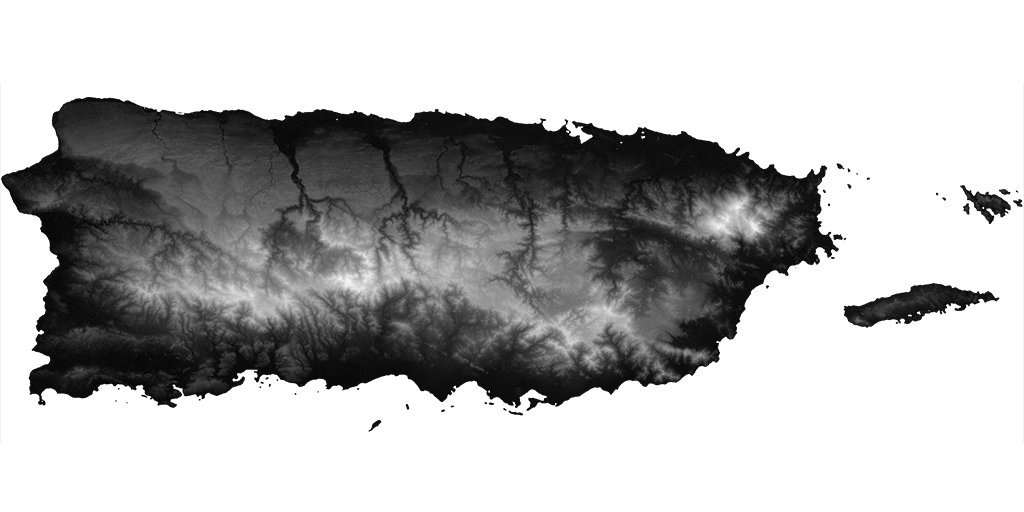
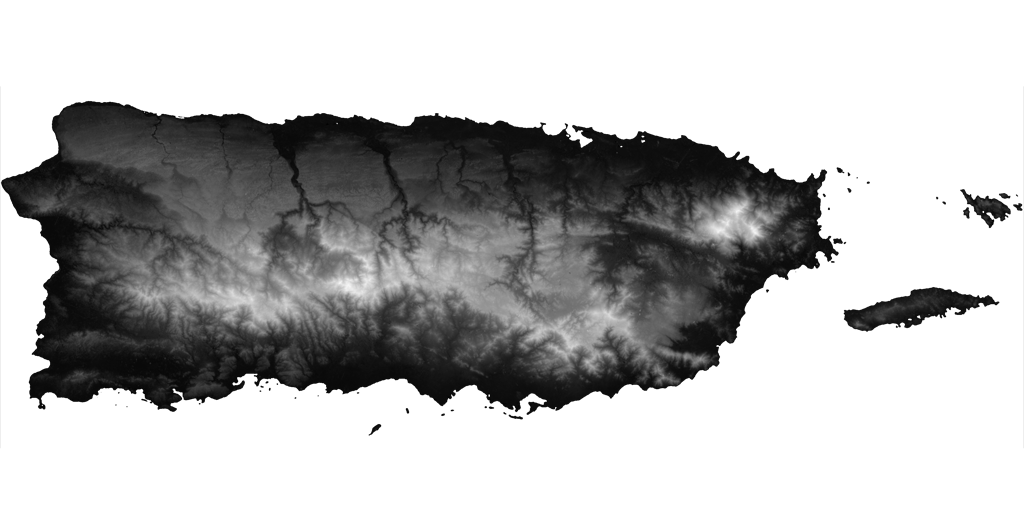
WIP using normal map

diff --git a/src/main.js b/src/main.js
@@ -8,16 +8,29 @@ const main = () => {
 };
 
 const start = (err, regl) => {
-  const pr_height_map = loadTexture(regl, 'img/puerto-rico-heightmap-1024.png');
+  const pr_tex_opts = {
+    min: 'nearest',
+    mag: 'nearest',
+  };
+
+  const pr_normals = loadTexture(regl, 'img/puerto-rico-normals-1024.png', pr_tex_opts);
+  const pr_heights = loadTexture(regl, 'img/puerto-rico-heightmap-1024.png', pr_tex_opts);
+
+  const state_width = 1024;
+  const state_height = 512;
+  const state_aspect_ratio = state_width / state_height;
+  const state_pixel_scale = [1.0, 1.0 / state_aspect_ratio];
 
   const state = (Array(2)).fill().map(() =>
     regl.framebuffer({
       color: regl.texture({
         width: 1024,
         height: 512,
-        wrap: 'clamp'
+        wrap: 'clamp',
+        min: 'linear',
+        mag: 'linear',
       }),
-      depthStencil: false
+      depthStencil: false,
     })
   );
 
@@ -26,36 +39,55 @@ const start = (err, regl) => {
     precision highp float;
 
     uniform sampler2D u_prev_state;
-    uniform sampler2D u_height_map;
-    
-    varying vec2 v_uv;
-    
+    uniform sampler2D u_normals;
+    uniform float u_time;
+    uniform vec2 u_pixel_scale;
+
+    varying vec2 v_texcoord;
+
+    vec2 hash21(float p) {
+      vec3 p3 = fract(vec3(p) * vec3(0.1031, 0.1030, 0.0973));
+      p3 += dot(p3, p3.yzx + 19.19);
+      return fract((p3.xx + p3.yz) * p3.zy);
+    }
+
     void main() {
-      gl_FragColor = texture2D(u_prev_state, v_uv);
+      vec4 normal_texel = texture2D(u_normals, v_texcoord);
+      vec3 normal = normal_texel.xyz * 2.0 - 1.0;
+
+      vec2 disp = normal.xy * u_pixel_scale * 0.1;
+      vec3 c = texture2D(u_prev_state, v_texcoord - disp).rgb;
+      c *= 0.99;
+      c += vec3(smoothstep(0.01, 0.0, distance(v_texcoord, hash21(floor(u_time * 2.0)))));
+
+      gl_FragColor = vec4(c, normal_texel.a);
     }`,
 
     vert: `
     precision highp float;
-    
+
+    attribute vec2 a_texcoord;
     attribute vec2 a_position;
-    
-    varying vec2 v_uv;
+
+    varying vec2 v_texcoord;
 
     void main() {
-      v_uv = a_position;
+      v_texcoord = a_texcoord;
       gl_Position = vec4(a_position, 0.0, 1.0);
     }`,
 
     attributes: {
-      a_position: [-1, -1, -1, 1, 1, -1, 1, 1]
+      a_texcoord: [0, 0, 0, 1, 1, 0, 1, 1],
+      a_position: [-1, -1, -1, 1, 1, -1, 1, 1],
     },
 
     uniforms: {
       u_prev_state: ({tick}) => state[tick % 2],
-      u_height_map: pr_height_map
+      u_normals: pr_normals,
+      u_heights: pr_heights,
+      u_time: ({time}) => time,
+      u_pixel_scale: state_pixel_scale,
     },
-
-    depth: { enable: false },
 
     primitive: 'triangle strip',
     count: 4,
@@ -68,32 +100,33 @@ const start = (err, regl) => {
     precision highp float;
 
     uniform sampler2D u_prev_state;
-    
-    varying vec2 v_uv;
-    
+
+    varying vec2 v_texcoord;
+
     void main() {
-      gl_FragColor = texture2D(u_prev_state, v_uv);
+      gl_FragColor = texture2D(u_prev_state, v_texcoord);
     }`,
 
     vert: `
     precision highp float;
-    
+
     attribute vec2 a_position;
-    
-    varying vec2 v_uv;
+    attribute vec2 a_texcoord;
+
+    varying vec2 v_texcoord;
 
     void main() {
-      v_uv = a_position;
+      v_texcoord = a_texcoord;
       gl_Position = vec4(a_position, 0.0, 1.0);
     }`,
 
     attributes: {
-      a_position: [-1, -1, -1, 1, 1, -1, 1, 1]
+      a_texcoord: [0, 0, 0, 1, 1, 0, 1, 1],
+      a_position: [-1, -1, -1, 1, 1, -1, 1, 1],
     },
 
     uniforms: {
-      u_prev_state: ({tick}) => state[tick % 2],
-      u_height_map: pr_height_map
+      u_prev_state: ({tick}) => state[tick % 2]
     },
 
     depth: { enable: false },

diff --git a/src/utils.js b/src/utils.js
@@ -8,6 +8,7 @@ const loadTexture = (regl, url, opts) => {
     data: img,
     min: 'linear',
     mag: 'linear',
+    flipY: true,
   };
 
   if (opts !== undefined) {
